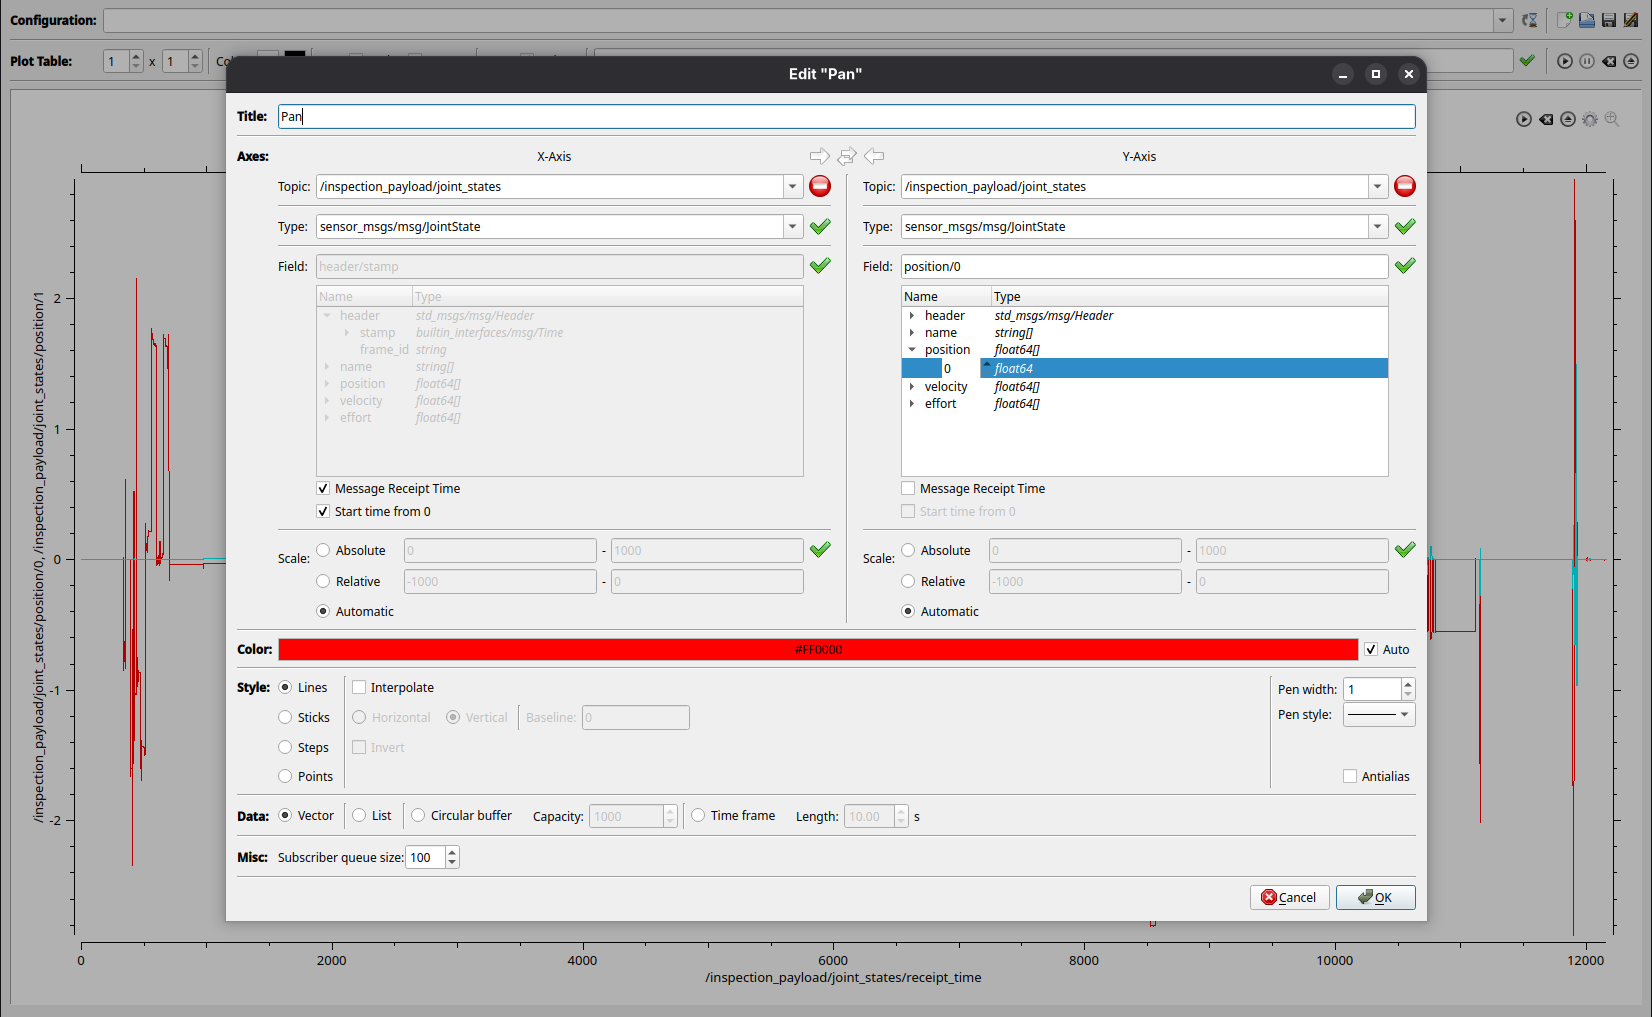
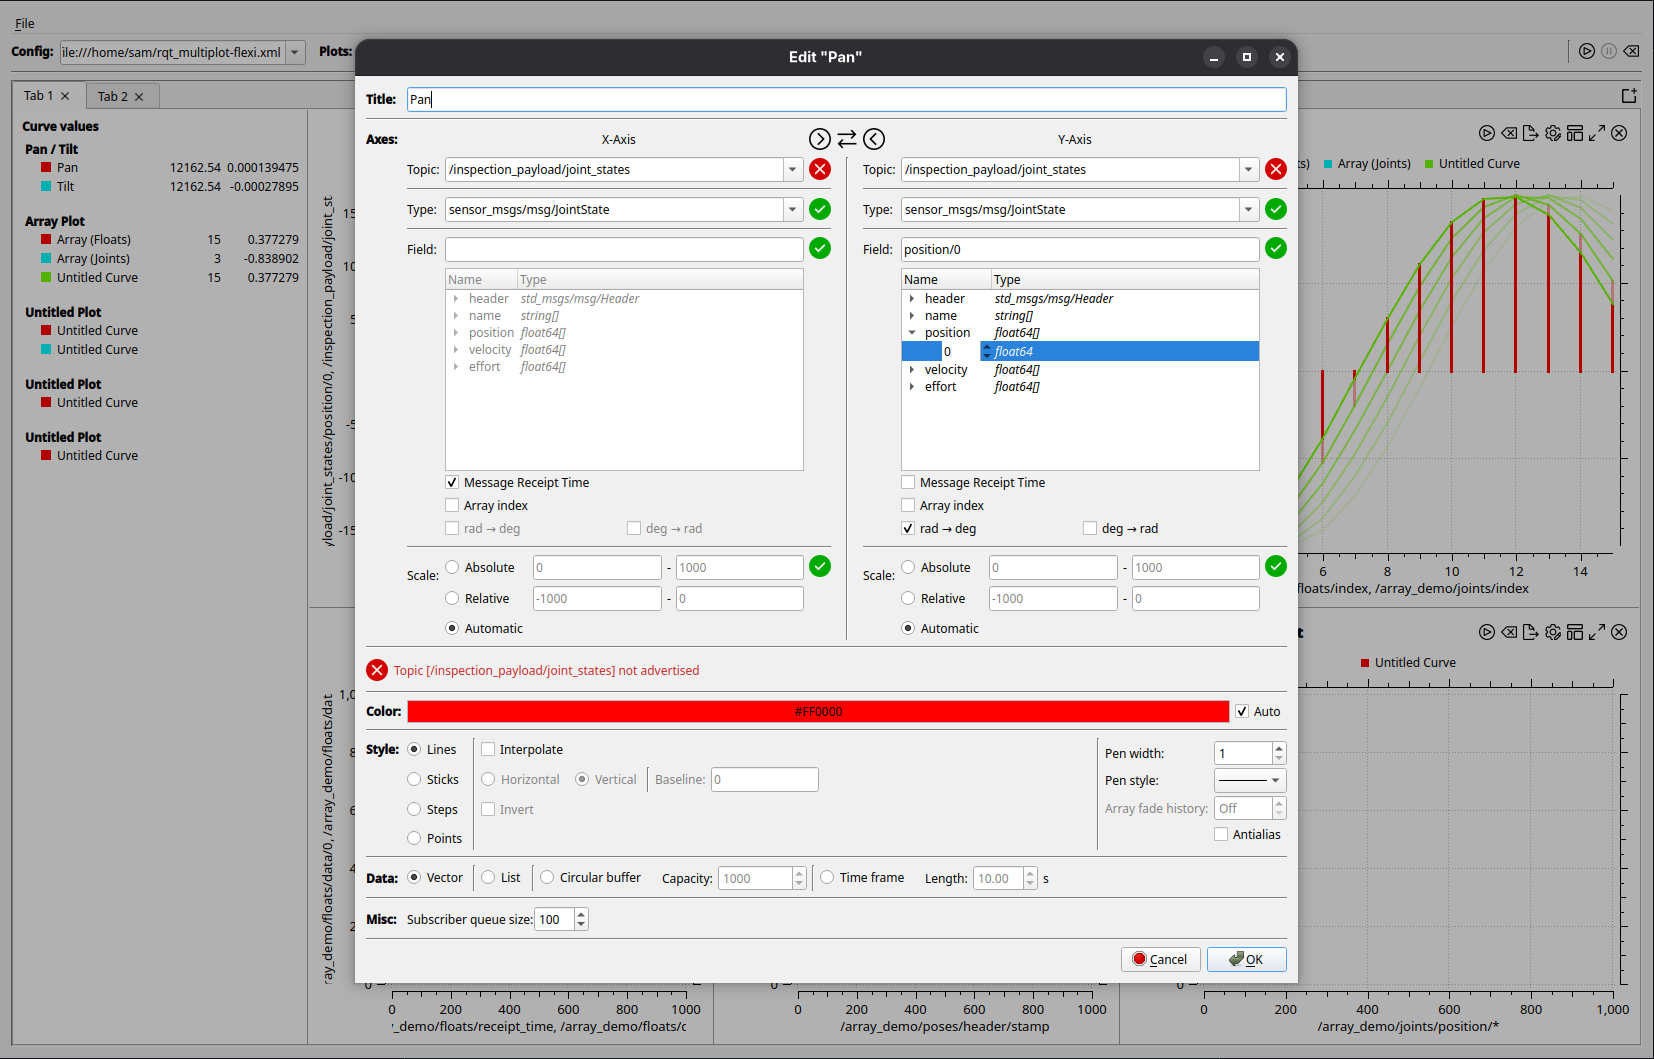
update readme

diff --git a/README.md b/README.md
@@ -2,9 +2,9 @@
 
 [![CI](https://github.com/samuelba/rqt_multiplot_plugin/actions/workflows/ci.yml/badge.svg?branch=main)](https://github.com/samuelba/rqt_multiplot_plugin/actions/workflows/ci.yml?query=branch%3Amain)
 
-rqt plugin for ROS 2 that plots numeric message fields in tiled 2D plots ([Qwt](https://qwt.sourceforge.io)).
+Plots numeric ROS 2 message fields in tiled 2D charts ([Qwt](https://qwt.sourceforge.io)). Nested splits and tabs give a layout that is not a strict grid. Subscribe to live topics or import a rosbag2, then inspect values with a linked cursor and a curve-values sidebar. Runs as its own window or as an rqt plugin.
 
-**Author(s):** Ralf Kaestner, Samuel Bachmann
+**Authors:** Ralf Kaestner, Samuel Bachmann
 
 **Maintainer:** Samuel Bachmann
 
@@ -14,18 +14,30 @@ rqt plugin for ROS 2 that plots numeric message fields in tiled 2D plots ([Qwt](
 
 ## Features
 
-- **Multiple plots and curves** — split any plot horizontally or vertically; each plot can hold many curves
-- **Tabs** — multiple named plot layouts in one window; each tab has its own layout, colors, and link/track settings
+- **Nested plot layout** — split any plot left/right or top/bottom and nest splits (two on the left, one on the right). Drag splitter handles; reset the active tab to even sizes. Ratios are stored in the XML
+- **Tabs** — multiple named layouts in one window; each tab has its own plots, colors, grid, and link/track settings
 - **Live topics and rosbag2** — subscribe while running, or import `.mcap` / `.db3` files and bag directories
-- **Linked plots** — shared scale and cursor; optional point tracking under the pointer
+- **Linked plots** — shared scale and cursor; optional point tracking under the pointer; click a legend item to hide a curve
 - **Curve values** — collapsible per-tab list of each curve's latest X and Y, grouped by plot
-- **Export** — PNG, SVG, PDF images; TXT or CSV curve data
-- **Reusable layouts** — save and load XML configurations (`file://`, `home://`, `package://`); older row×column files still load
+- **Time axes** — message receipt time, start from zero, date-time labels, or raw stamps. Time zone in **File → Preferences** (local, UTC, or IANA). Optional plot-level **Time window** (last *N* seconds)
+- **Light and dark** — theme and plot-title size, weight, and color under **File → Preferences**. Changes apply to the open plots
+- **Configs and export** — **File** menu: open/save XML (`file://`, `home://`, `package://`); import a bag; export PNG, SVG, PDF, TXT, or CSV. Unsaved layout changes prompt on close. Older row×column files still load
 - **[Array curves](#array-curves)** — plot a whole array vs index (or vs another array field); the series is replaced on each message
 
-Also: run / pause / clear, message receipt time, start time from 0, circular and time-frame buffers, and drag-and-drop of curves between plot legends.
+Also: run / pause / clear, circular and time-frame buffers, rad ↔ deg on an axis, grid on/off, drag-and-drop of curves between plot legends.
 
-![Overview](images/overview.png)
+<table>
+  <tr>
+    <td align="center" width="50%">
+      <img src="images/overview_light.png" alt="Multiplot light theme" />
+      <br/>Light
+    </td>
+    <td align="center" width="50%">
+      <img src="images/overview_dark.png" alt="Multiplot dark theme" />
+      <br/>Dark
+    </td>
+  </tr>
+</table>
 
 ## Installation
 
@@ -54,19 +66,23 @@ source install/setup.bash
 
 ## Usage
 
-Standalone plugin:
+Standalone window (no rqt):
+
+```shell
+ros2 run rqt_multiplot multiplot
+```
+
+rqt plugin, either in its own rqt window or inside rqt (**Plugins → Visualization → Multiplot**):
 
 ```shell
 ros2 run rqt_multiplot rqt_multiplot
 ```
 
-Or start rqt and load **Plugins → Visualization → Multiplot**:
-
 ```shell
 rqt --force-discover
 ```
 
-If the plugin list or layout is broken:
+If the rqt plugin list or layout is broken:
 
 ```shell
 rqt --clear-config
@@ -75,11 +91,13 @@ rqt --clear-config
 Load a configuration, a bag, and start plotting:
 
 ```shell
-ros2 run rqt_multiplot rqt_multiplot -- \
+ros2 run rqt_multiplot multiplot \
   --multiplot-config file:///path/to/layout.xml \
   --multiplot-bag /path/to/bag \
   --multiplot-run-all
 ```
+
+The rqt launcher needs `--` before those flags.
 
 | Option | Meaning |
 | --- | --- |
@@ -99,11 +117,17 @@ ros2 run rqt_multiplot rqt_multiplot -- \
 | Click a legend item | Toggle that curve's visibility |
 | Drag a legend item onto another plot | Copy that curve |
 
-Use the plot toolbar to run, pause, clear, configure, export, split (left / right / top / bottom), maximize, or close one plot. Drag a splitter handle to resize panes; those ratios are stored in the XML. Older row×column files still load.
+Use the plot toolbar to run, pause, clear, configure, export, split (left / right / top / bottom), maximize, or close one plot. Drag a splitter handle to resize panes; those ratios are stored in the XML. The even-distribution button on the main toolbar resets splitter sizes in the active tab. Older row×column files still load.
 
-**Link Scale** keeps axis ranges in sync across the plots. **Link Cursor** moves the crosshair on every plot. **Track Points** marks the nearest sample on each curve and shows its title and x, y. The side-panel button (between Track Points and the time toggles) shows or hides **Curve values** for the active tab.
+**Link Scale** keeps axis ranges in sync across the plots. **Link Cursor** moves the crosshair on every plot. **Track Points** marks the nearest sample on each curve and shows its title and x, y. The side-panel button (between Track Points and the time toggles) shows or hides **Curve values** for the active tab. The grid button turns plot grids on or off for the active tab.
 
 The timer and calendar toggles set the X-axis time labels for the active tab: start from zero (default), date and time (`HH:mm:ss.z` / `yyyy MMM dd`), or raw timestamps. Only one of those two can be on; both off shows the timestamp. Array-index and other numeric X axes are unchanged. Set the date-time zone in **File → Preferences** (local system zone by default, UTC, or a named IANA zone). The choice is stored in the plot XML.
+
+**File** — new / open / save / save as XML; import a bag file or directory; export image or text; preferences. Closing with unsaved layout changes asks to save.
+
+### Preferences
+
+**File → Preferences** has **General** (time zone) and **Appearance** (light/dark theme, plot-title font size, regular/bold, color). Title changes apply to the open plots so they can be checked before saving. Save as user defaults, or store them in the XML layout.
 
 ### Configure a plot
 
@@ -120,6 +144,7 @@ Pick topic, message type, and field for each axis. X and Y can come from differe
 Useful curve options:
 
 - **Message receipt time** — plot against the time the message arrived
+- **rad → deg** / **deg → rad** — convert the selected axis
 - **Circular buffer** / **Time frame** — keep a fixed number of points or the last *n* seconds
 
 Whole-array fields use a different curve mode. See [Array curves](#array-curves).
